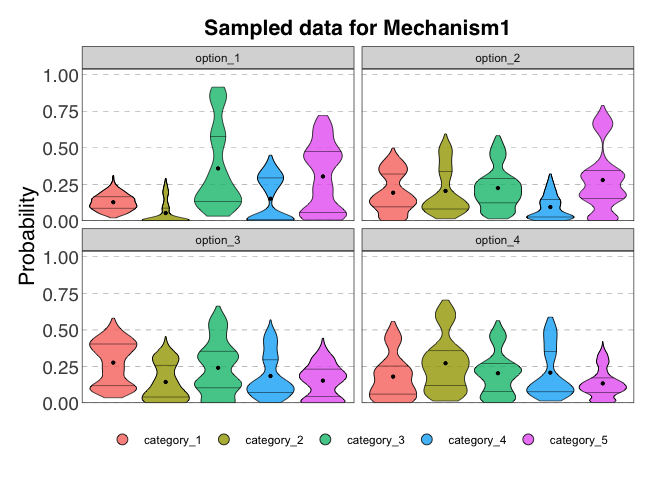
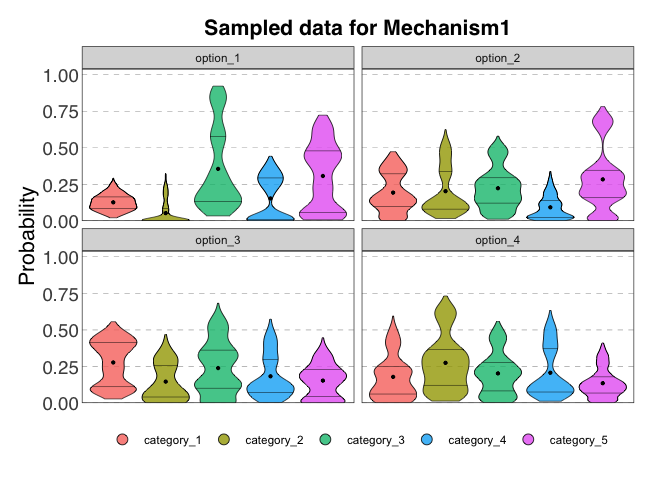
Updat eReadme R universe.

diff --git a/README.md b/README.md
@@ -37,7 +37,15 @@ You can install the development version of elicitr from GitHub with:
 
 ``` r
 # install.packages("pak")
-#pak::pak("CREWdecisions/elicitr")
+pak::pak("CREWdecisions/elicitr")
+install.packages("elicitr", 
+                 repos = c('https://crewdecisions.r-universe.dev',
+                 'https://cloud.r-project.org'))
+```
+
+Or you can install form R universe using
+
+``` r
 install.packages("elicitr", 
                  repos = c('https://crewdecisions.r-universe.dev',
                  'https://cloud.r-project.org'))
@@ -193,16 +201,16 @@ samp_cont
 #> # A tibble: 18,000 × 3
 #>    id      var   value
 #>    <chr>   <chr> <dbl>
-#>  1 5ac97e0 var1     -4
-#>  2 5ac97e0 var1     -2
-#>  3 5ac97e0 var1     -2
+#>  1 5ac97e0 var1     -2
+#>  2 5ac97e0 var1      1
+#>  3 5ac97e0 var1      1
 #>  4 5ac97e0 var1     -2
-#>  5 5ac97e0 var1     -4
+#>  5 5ac97e0 var1      0
 #>  6 5ac97e0 var1     -2
 #>  7 5ac97e0 var1      1
 #>  8 5ac97e0 var1     -2
-#>  9 5ac97e0 var1      1
-#> 10 5ac97e0 var1      1
+#>  9 5ac97e0 var1     -2
+#> 10 5ac97e0 var1      0
 #> # ℹ 17,990 more rows
 ```
 
@@ -214,8 +222,8 @@ summary(samp_cont)
 #>   Var      Min     Q1 Median   Mean     Q3    Max
 #>   <chr>  <dbl>  <dbl>  <dbl>  <dbl>  <dbl>  <dbl>
 #> 1 var1  -4     -2      0     -0.982  1      1    
-#> 2 var2  11.1   14.5   16.3   16.3   18.3   22.6  
-#> 3 var3   0.472  0.672  0.717  0.714  0.759  0.878
+#> 2 var2  11.0   14.5   16.3   16.3   18.3   22.6  
+#> 3 var3   0.484  0.671  0.716  0.714  0.760  0.874
 ```
 
 And plotted as violin plots:
@@ -359,16 +367,16 @@ samp_cat_unweighted
 #> # A tibble: 2,400 × 7
 #>    id      option   category_1 category_2 category_3 category_4 category_5
 #>    <chr>   <chr>         <dbl>      <dbl>      <dbl>      <dbl>      <dbl>
-#>  1 5ac97e0 option_1     0.0853          0      0.835    0.00450     0.0754
-#>  2 5ac97e0 option_1     0.0671          0      0.895    0.0177      0.0201
-#>  3 5ac97e0 option_1     0.0739          0      0.875    0.0171      0.0336
-#>  4 5ac97e0 option_1     0.114           0      0.841    0.00892     0.0358
-#>  5 5ac97e0 option_1     0.0759          0      0.865    0.0168      0.0425
-#>  6 5ac97e0 option_1     0.0341          0      0.907    0.00818     0.0505
-#>  7 5ac97e0 option_1     0.0882          0      0.817    0.0128      0.0819
-#>  8 5ac97e0 option_1     0.106           0      0.860    0.00311     0.0310
-#>  9 5ac97e0 option_1     0.0593          0      0.871    0.00661     0.0635
-#> 10 5ac97e0 option_1     0.0929          0      0.878    0.00888     0.0204
+#>  1 5ac97e0 option_1     0.0800          0      0.837    0.0251      0.0578
+#>  2 5ac97e0 option_1     0.0673          0      0.835    0.0446      0.0527
+#>  3 5ac97e0 option_1     0.119           0      0.789    0.0180      0.0741
+#>  4 5ac97e0 option_1     0.0362          0      0.922    0.00877     0.0331
+#>  5 5ac97e0 option_1     0.0637          0      0.819    0.0234      0.0941
+#>  6 5ac97e0 option_1     0.0625          0      0.805    0.0355      0.0969
+#>  7 5ac97e0 option_1     0.0553          0      0.878    0.0207      0.0463
+#>  8 5ac97e0 option_1     0.117           0      0.846    0.00632     0.0313
+#>  9 5ac97e0 option_1     0.0970          0      0.812    0.0245      0.0669
+#> 10 5ac97e0 option_1     0.0644          0      0.848    0.0232      0.0645
 #> # ℹ 2,390 more rows
 
 samp_cat_weighted <- cat_sample_data(my_elic_cat,
@@ -379,16 +387,16 @@ samp_cat_weighted
 #> # A tibble: 1,800 × 7
 #>    id      option   category_1 category_2 category_3 category_4 category_5
 #>    <chr>   <chr>         <dbl>      <dbl>      <dbl>      <dbl>      <dbl>
-#>  1 5ac97e0 option_1    0.0238     0.0225     0.00949      0.861     0.0828
-#>  2 5ac97e0 option_1    0.0193     0.0418     0.00711      0.867     0.0650
-#>  3 5ac97e0 option_1    0.00164    0.0242     0.0110       0.888     0.0749
-#>  4 5ac97e0 option_1    0.0221     0.0233     0.00349      0.863     0.0877
-#>  5 5ac97e0 option_1    0.0246     0.0509     0.00528      0.832     0.0872
-#>  6 5ac97e0 option_1    0.0388     0.00434    0.00313      0.898     0.0554
-#>  7 5ac97e0 option_1    0.00505    0.0112     0.00170      0.923     0.0592
-#>  8 5ac97e0 option_1    0.0226     0.0204     0.00580      0.892     0.0595
-#>  9 5ac97e0 option_1    0.0496     0.00873    0.00618      0.861     0.0749
-#> 10 5ac97e0 option_1    0.0480     0.0140     0.00192      0.819     0.117 
+#>  1 5ac97e0 option_1    0.0428     0.0298    0.00248       0.871     0.0538
+#>  2 5ac97e0 option_1    0.0189     0.0166    0.00875       0.877     0.0783
+#>  3 5ac97e0 option_1    0.0194     0.0131    0.000968      0.902     0.0642
+#>  4 5ac97e0 option_1    0.0222     0.00988   0.0172        0.909     0.0420
+#>  5 5ac97e0 option_1    0.00456    0.0226    0.00159       0.895     0.0762
+#>  6 5ac97e0 option_1    0.0120     0.0169    0.00322       0.888     0.0801
+#>  7 5ac97e0 option_1    0.00776    0.00706   0.0152        0.905     0.0647
+#>  8 5ac97e0 option_1    0.0171     0.0205    0.0103        0.796     0.157 
+#>  9 5ac97e0 option_1    0.0297     0.0158    0.00428       0.911     0.0391
+#> 10 5ac97e0 option_1    0.0496     0.0224    0.0112        0.834     0.0826
 #> # ℹ 1,790 more rows
 ```
 
@@ -399,11 +407,11 @@ summary(samp_cat_unweighted, option = "option_2")
 #> # A tibble: 5 × 7
 #>   Category        Min     Q1 Median   Mean    Q3   Max
 #>   <chr>         <dbl>  <dbl>  <dbl>  <dbl> <dbl> <dbl>
-#> 1 category_1 0.000285 0.0966 0.162  0.193  0.321 0.500
-#> 2 category_2 0.0157   0.0822 0.136  0.206  0.337 0.596
-#> 3 category_3 0.0151   0.124  0.207  0.225  0.292 0.584
-#> 4 category_4 0.00184  0.0275 0.0714 0.0956 0.148 0.323
-#> 5 category_5 0.00141  0.154  0.247  0.280  0.344 0.790
+#> 1 category_1 0.00164  0.100  0.164  0.194  0.323 0.474
+#> 2 category_2 0.0174   0.0813 0.128  0.204  0.337 0.625
+#> 3 category_3 0.0125   0.122  0.208  0.224  0.296 0.581
+#> 4 category_4 0.000554 0.0254 0.0724 0.0935 0.140 0.340
+#> 5 category_5 0.00122  0.159  0.250  0.284  0.347 0.782
 ```
 
 And plotted as violin plots:
